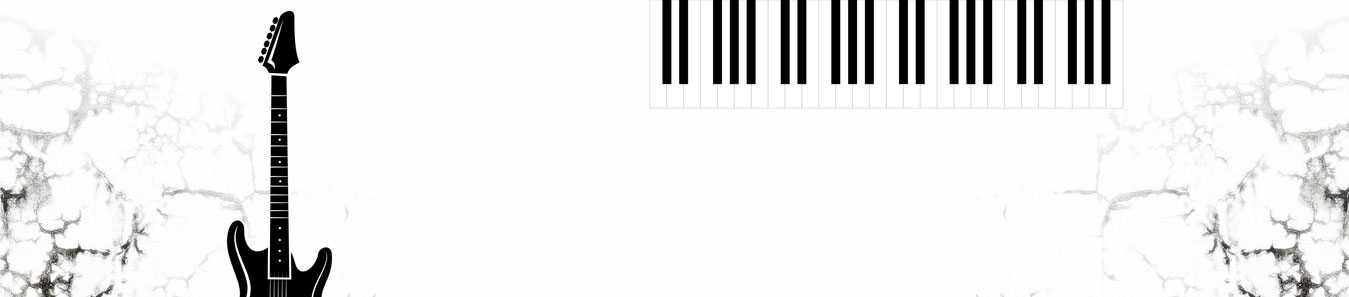
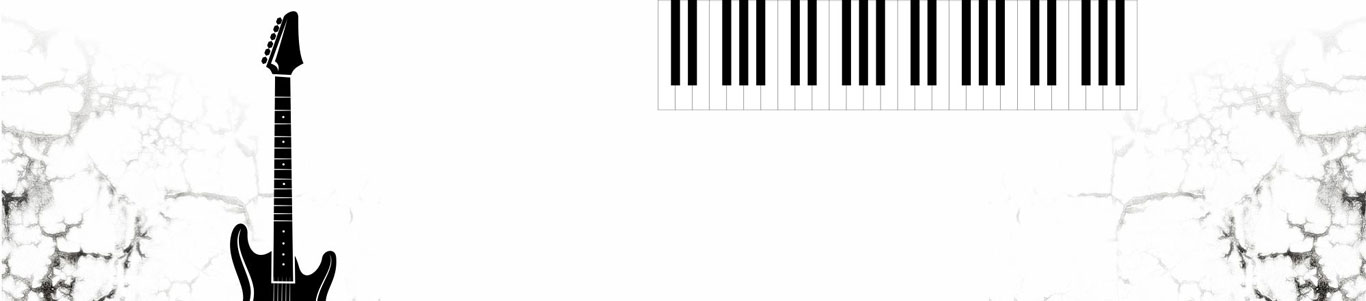
Ajustes de tamaño en imagenes de seccion Slider y Nosotros

diff --git a/index.html b/index.html
@@ -125,9 +125,9 @@ del alumno y contribuir con el desarrollo cultural de nuestro país.
 
 			<article class="col-md-4 col-sm-4 col-xs-12">
 
-				<a href="" title="Tienda Musical">
+				<a href="academia.html" title="Tienda Musical">
 					<div>
-						<img src="images/academia_musica.jpg" alt="Tienda Musical">
+						<img src="images/academia_musica.jpg" alt="Academia Musical">
 						<span>
 							ACADEMIA DE MÚSICA
 						</span>
@@ -138,7 +138,7 @@ del alumno y contribuir con el desarrollo cultural de nuestro país.
 
 			<article class="col-md-4 col-sm-4 col-xs-12">
 	
-				<a href="" title="Tienda Musical">
+				<a href="tienda_musical.html" title="Tienda Musical">
 					<div>
 						<img src="images/tienda_musical.jpg" alt="Tienda Musical">
 						<span>

diff --git a/css/estilos.css b/css/estilos.css
@@ -244,7 +244,7 @@ body{
 }
 
 .slides ul li a img{
-	width:100%;
+	width:100vw;
 	max-width:1366px;
 	height:auto;
 }
@@ -300,7 +300,7 @@ body{
 	display:block;
 	height:301px;
 	background:#FFF url(../images/seccion_nosotros_bg.jpg) no-repeat 0px 0px;
-	background-size:100%;
+	background-size:100vw;
 	overflow:hidden;
 	padding-right:0px;
 	padding-left:0px;
@@ -340,7 +340,7 @@ body{
 	display: block;
 	background: #FFF;
 	height: auto;
-	padding-top:2.5px;
+	padding-top:6.5px;
 	padding-right: 6px;
 	padding-left: 7px;
 }
